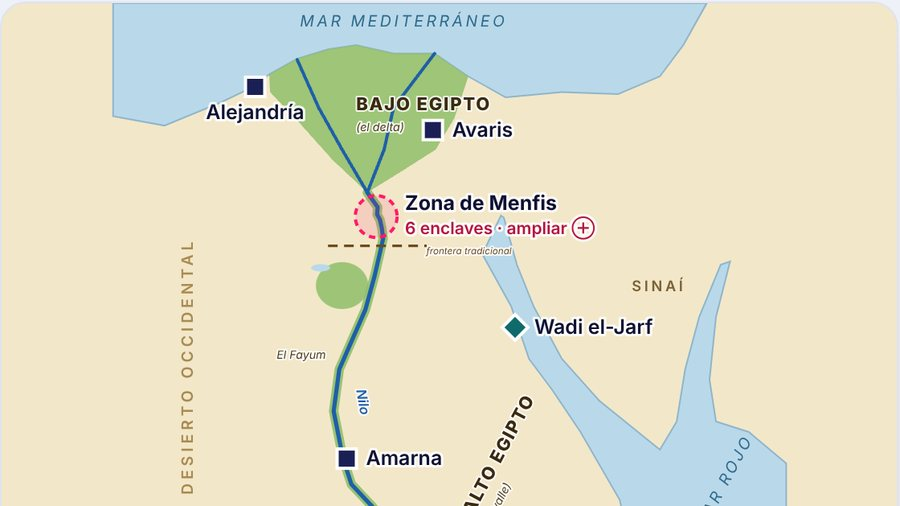
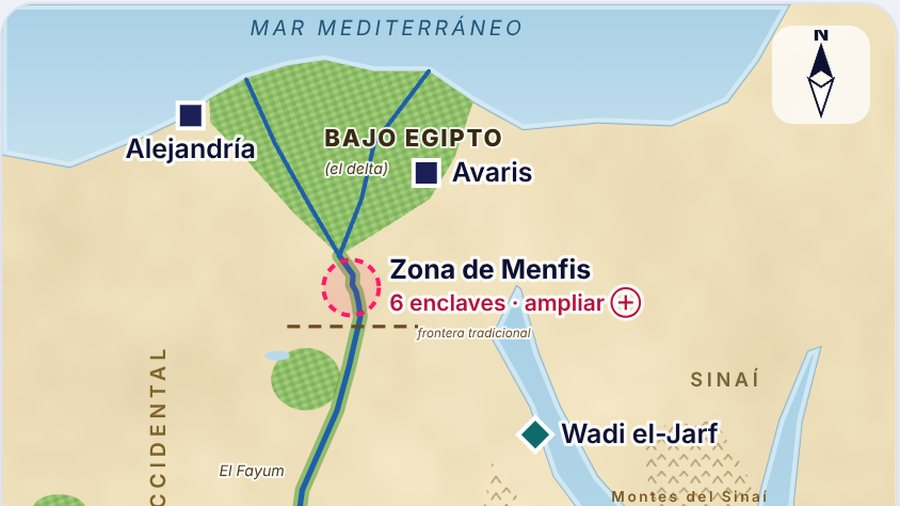
Mapa de Egipto: mejora gráfica
- Textura de arena en el desierto, mar con degradado y aguas costeras.
- Campos de cultivo en el delta, El Fayum y los oasis (Bahariya, Dajla, Jarga).
- Montes del mar Rojo y del Sinaí con trama de relieve esquemática.
- Rosa de los vientos y escala gráfica que se ajusta al ampliar.
- El recuadro del mapa se ajusta a su forma; leyenda y nota actualizadas.

Claude-Session: https://claude.ai/code/session_011Ajp1AFFrmJdfUC8hxCHbb

diff --git a/egipto/mapa.js b/egipto/mapa.js
@@ -49,6 +49,33 @@
     tebas: cajaZona(G.zonas.tebas),
   };
 
+  // Textura del desierto: ruido suave (valor interpolado) dibujado en un lienzo pequeño.
+  // Es decorativa: NO representa el relieve real, solo da aspecto de arena.
+  function texturaDesierto() {
+    try {
+      const W = 322, Hh = 540, c = document.createElement('canvas'); c.width = W; c.height = Hh;
+      const g = c.getContext('2d'), img = g.createImageData(W, Hh), d = img.data;
+      let semilla = 9;
+      const rnd = () => { semilla = (semilla * 16807) % 2147483647; return semilla / 2147483647; };
+      const rejilla = (n) => { const r = []; for (let i = 0; i < (n + 2) * (n + 2); i++) r.push(rnd()); return r; };
+      const capas = [[6, 0.5], [14, 0.3], [40, 0.2]].map(([n, peso]) => ({ n, peso, r: rejilla(n) }));
+      const suave = t => t * t * (3 - 2 * t);
+      for (let y = 0; y < Hh; y++) for (let x = 0; x < W; x++) {
+        let v = 0;
+        for (const { n, peso, r } of capas) {
+          const fx = x / W * n, fy = y / Hh * n * 1.4, ix = Math.floor(fx), iy = Math.floor(fy) % (n + 1);
+          const tx = suave(fx - ix), ty = suave(fy - Math.floor(fy)), w = n + 2;
+          const a = r[iy * w + ix], b = r[iy * w + ix + 1], c2 = r[(iy + 1) * w + ix], e = r[(iy + 1) * w + ix + 1];
+          v += peso * ((a * (1 - tx) + b * tx) * (1 - ty) + (c2 * (1 - tx) + e * tx) * ty);
+        }
+        const i = (y * W + x) * 4, k = (v - 0.5) * 2;
+        d[i] = 238 + k * 14; d[i + 1] = 223 + k * 16; d[i + 2] = 186 + k * 18; d[i + 3] = 255;
+      }
+      g.putImageData(img, 0, 0);
+      return c.toDataURL('image/png');
+    } catch (e) { return null; }
+  }
+
   function iniciar() {
     const caja = document.getElementById('mapa-egipto');
     if (!caja) return;
@@ -60,14 +87,39 @@
     const mapa = svg('svg', { viewBox: `0 0 ${ANCHO.toFixed(0)} ${ALTO.toFixed(0)}`, role: 'group',
       'aria-labelledby': 'mapa-titulo', class: 'mapa', preserveAspectRatio: 'xMidYMid meet' });
     mapa.append(svg('title', { id: 'mapa-titulo' }, 'Mapa del antiguo Egipto: el Nilo, el delta, las cataratas y los principales enclaves'));
+    // Motivos de relleno: campos de cultivo y montes (se dibujan una vez, no pesan)
+    const defs = svg('defs', {},
+      svg('pattern', { id: 'p-campos', width: 7, height: 5, patternUnits: 'userSpaceOnUse', patternTransform: 'rotate(-20)' },
+        svg('rect', { width: 7, height: 5, fill: 'var(--verde)' }),
+        svg('rect', { width: 3.4, height: 2.3, fill: '#a4cd7d' }), svg('rect', { x: 3.6, y: 2.6, width: 3.4, height: 2.4, fill: '#7fb15a' })),
+      svg('pattern', { id: 'p-montes', width: 16, height: 12, patternUnits: 'userSpaceOnUse' },
+        svg('path', { d: 'M1 9L4.5 4L8 9M9 4L12 0.5L15 4', fill: 'none', stroke: '#9c7a45', 'stroke-width': 1.1, 'stroke-linejoin': 'round', opacity: 0.75 })),
+      svg('clipPath', { id: 'c-mar' }, svg('path', { d: ruta(G.mediterraneo, true) + ruta(G.marRojo, true) })),
+      svg('linearGradient', { id: 'g-mar', x1: 0, y1: 0, x2: 0, y2: 1 },
+        svg('stop', { offset: 0, 'stop-color': '#a9d0e6' }), svg('stop', { offset: 1, 'stop-color': '#c4e0ee' })));
+    mapa.append(defs);
     mapa.append(svg('rect', { class: 'tierra', x: 0, y: 0, width: ANCHO, height: ALTO }));
+    // Textura del desierto: manchas suaves generadas una sola vez en un lienzo
+    const tex = texturaDesierto();
+    if (tex) mapa.append(svg('image', { href: tex, x: 0, y: 0, width: ANCHO, height: ALTO, preserveAspectRatio: 'none', opacity: 0.9, 'aria-hidden': 'true', class: 'textura-desierto' }));
+    // Montes (relieve esquemático)
+    for (const m of G.montes) mapa.append(svg('path', { class: 'montes', d: ruta(m.contorno, true) }));
     mapa.append(svg('path', { class: 'mar', d: ruta(G.mediterraneo, true) }));
     mapa.append(svg('path', { class: 'mar', d: ruta(G.marRojo, true) }));
+    // Aguas poco profundas junto a la costa
+    mapa.append(svg('g', { 'clip-path': 'url(#c-mar)' },
+      svg('path', { class: 'costa-agua', d: ruta(G.mediterraneo, true) }), svg('path', { class: 'costa-agua', d: ruta(G.marRojo, true) })));
+    // Oasis
+    for (const o of G.oasis) {
+      const [ox, oy] = px(o.pos[0], o.pos[1]);
+      mapa.append(svg('ellipse', { class: 'fertil campos', cx: ox, cy: oy, rx: o.rx * ESCALA * K, ry: o.ry * ESCALA }));
+    }
     const [fx, fy] = px(G.fayum.centro[0], G.fayum.centro[1]);
-    mapa.append(svg('ellipse', { class: 'fertil', cx: fx, cy: fy, rx: G.fayum.radio * ESCALA * K, ry: G.fayum.radio * ESCALA * 0.8 }));
+    mapa.append(svg('ellipse', { class: 'fertil campos', cx: fx, cy: fy, rx: G.fayum.radio * ESCALA * K, ry: G.fayum.radio * ESCALA * 0.8 }));
     const [lx, ly] = px(G.fayum.lago[0], G.fayum.lago[1]);
     mapa.append(svg('ellipse', { class: 'lago', cx: lx, cy: ly, rx: 9, ry: 3.5 }));
-    mapa.append(svg('path', { class: 'fertil', d: ruta(G.delta, true) }));
+    mapa.append(svg('path', { class: 'fertil campos', d: ruta(G.delta, true) }));
+    mapa.append(svg('path', { class: 'valle-borde', d: ruta(G.nilo) }));
     mapa.append(svg('path', { class: 'valle', d: ruta(G.nilo) }));
     mapa.append(svg('path', { class: 'nilo', d: ruta(G.nilo) }));
     G.brazos.forEach(b => mapa.append(svg('path', { class: 'nilo brazo', d: ruta(b) })));
@@ -79,6 +131,8 @@
       const [x, y] = px(lat, lon);
       rotulos.append(svg('text', { x, y, class: 'r-' + clase, transform: giro ? `rotate(${giro} ${x} ${y})` : '' }, texto));
     }
+    for (const o of G.oasis) { const [x, y] = px(o.pos[0] - o.ry - 0.12, o.pos[1]); rotulos.append(svg('text', { x, y, class: 'r-oasis' }, o.nombre)); }
+    for (const m of G.montes) { const [x, y] = px(m.rotulo[0], m.rotulo[1]); rotulos.append(svg('text', { x, y, class: 'r-montes', transform: m.rotulo[2] ? `rotate(${m.rotulo[2]} ${x} ${y})` : '' }, m.nombre)); }
     mapa.append(rotulos);
 
     // Capa de elementos que mantienen su tamaño al ampliar
@@ -140,6 +194,10 @@
       marcadores[e.id] = g;
     }
     caja.append(mapa);
+    const rosa = el('div', { class: 'rosa', 'aria-hidden': 'true' });
+    rosa.innerHTML = '<svg viewBox="-20 -24 40 46" width="38" height="44"><path d="M0 -18L6 0L0 -4L-6 0Z" fill="#0d1033"/><path d="M0 18L6 0L0 4L-6 0Z" fill="#fff" stroke="#0d1033" stroke-width="1"/><text x="0" y="-19" text-anchor="middle" font-size="10" font-weight="800" fill="#0d1033">N</text></svg>';
+    const escala = el('div', { class: 'escala', 'aria-hidden': 'true' }, el('span', { class: 'barra-escala' }), el('span', { class: 'texto-escala' }));
+    caja.append(rosa, escala);
 
     // ---------- Vistas y ampliación ----------
     let vista = 'todo', vb = { ...VISTAS.todo }, anim = null;
@@ -151,6 +209,11 @@
       const s = Math.min(1.6, Math.max(v.w / cw, v.h / ch));
       for (const f of fijos) f.nodo.setAttribute('transform', `translate(${f.x.toFixed(2)} ${f.y.toFixed(2)}) scale(${s.toFixed(5)})`);
       mapa.style.setProperty('--grosor', s);
+      // Escala gráfica: 1 grado de latitud ≈ 111 km
+      const pxKm = (1 / s) * (ESCALA / 111);
+      const km = [1000, 500, 200, 100, 50, 20, 10, 5, 2, 1, 0.5].find(k => k * pxKm <= 120) || 0.5;
+      escala.querySelector('.barra-escala').style.width = (km * pxKm).toFixed(0) + 'px';
+      escala.querySelector('.texto-escala').textContent = km >= 1 ? km + ' km' : km * 1000 + ' m';
     }
     function verVista(id, foco) {
       vista = id;

diff --git a/egipto/egipto.css b/egipto/egipto.css
@@ -30,6 +30,18 @@
 .mapa .mar{fill:var(--mar);stroke:#8fb5cb;stroke-width:1;vector-effect:non-scaling-stroke}
 .mapa .fertil{fill:var(--verde);opacity:.85}
 .mapa .lago{fill:var(--mar)}
+.mapa .montes{fill:url(#p-montes);stroke:none}
+.mapa .campos{fill:url(#p-campos);opacity:1}
+.mapa .mar{fill:url(#g-mar)}
+.mapa .costa-agua{fill:none;stroke:#dbeef6;stroke-width:7;opacity:.75;stroke-linejoin:round}
+.mapa .valle-borde{fill:none;stroke:#5f8f3f;stroke-width:calc(var(--valle,9px) * 1.18);stroke-linecap:round;stroke-linejoin:round;opacity:.55}
+.mapa .r-oasis{font-size:10px;font-style:italic;fill:#3f6b25;text-anchor:middle}
+.mapa .r-montes{font-size:10.5px;font-weight:600;letter-spacing:.18em;fill:#7a5a28;stroke:none;text-anchor:middle}
+.mapa-caja{position:relative;width:fit-content;max-width:100%;margin-inline:auto}
+@media (min-width:861px){.mapa{width:auto;height:min(78vh,900px);max-height:none}}
+.rosa{position:absolute;top:10px;right:12px;background:rgba(255,255,255,.75);border-radius:10px;padding:2px 4px 0;line-height:0}
+.escala{position:absolute;right:12px;bottom:10px;align-items:flex-end;background:rgba(255,255,255,.8);border-radius:8px;padding:4px 8px 3px;font-size:.72rem;font-weight:600;color:var(--azul);display:flex;flex-direction:column;gap:2px}
+.barra-escala{display:block;height:6px;border:2px solid var(--azul);border-top:0;min-width:20px}
 .mapa .valle{fill:none;stroke:var(--verde);stroke-width:var(--valle,8);stroke-linecap:round;stroke-linejoin:round;opacity:.9}
 .mapa .nilo{fill:none;stroke:var(--nilo);stroke-width:2.6;stroke-linecap:round;stroke-linejoin:round;vector-effect:non-scaling-stroke}
 .mapa .nilo.brazo{stroke-width:2}
@@ -174,3 +186,6 @@
 }
 @media print{.mapa-vistas,.barra-facil,.reto-botones{display:none}}
 .cmp.sola .cmp-marco::after{display:none}
+
+.mapa-caja:not([data-vista="todo"]) .textura-desierto{display:none}
+.m-montes{color:#9c7a45;font-weight:700;letter-spacing:-.15em}

diff --git a/egipto/mapa-geo.js b/egipto/mapa-geo.js
@@ -54,6 +54,22 @@ window.GEO_EGIPTO = {
   // Oasis de El Fayum y su lago
   fayum: { centro: [29.3, 30.85], radio: 0.28, lago: [29.47, 30.62] },
 
+  // Oasis del desierto occidental (posiciones aproximadas)
+  oasis: [
+    { nombre: 'Oasis de Bahariya', pos: [28.35, 28.86], rx: 0.22, ry: 0.12 },
+    { nombre: 'Oasis de Dajla', pos: [25.5, 29.05], rx: 0.35, ry: 0.1 },
+    { nombre: 'Oasis de Jarga', pos: [25.4, 30.55], rx: 0.12, ry: 0.4 },
+  ],
+
+  // Zonas montañosas (contorno esquemático): montes del mar Rojo y sur del Sinaí
+  montes: [
+    { nombre: 'MONTES DEL MAR ROJO', rotulo: [27.05, 33.07, -68], contorno: [
+      [28.7, 32.35], [28.1, 32.85], [27.2, 33.3], [26.2, 33.65], [25.2, 34.05], [24.2, 34.6], [23.2, 35.05], [22.2, 35.4], [21.2, 35.6],
+      [21.2, 34.75], [22.3, 34.1], [23.6, 33.55], [24.8, 33.2], [26.0, 32.95], [27.2, 32.7], [28.2, 32.25]] },
+    { nombre: 'Montes del Sinaí', rotulo: [28.42, 33.95, 0], contorno: [
+      [28.95, 33.55], [29.0, 34.15], [28.55, 34.45], [28.0, 34.32], [27.85, 34.1], [28.3, 33.65]] },
+  ],
+
   // Cataratas: zonas de rocas que cortan el río
   cataratas: [
     { nombre: '1.ª catarata', pos: [24.0, 32.88] },
@@ -68,8 +84,8 @@ window.GEO_EGIPTO = {
     [31.78, 30.4, 'MAR MEDITERRÁNEO', 'mar', 0],
     [26.95, 34.72, 'MAR ROJO', 'mar', -62],
     [29.25, 33.95, 'SINAÍ', 'region', 0],
-    [27.3, 29.25, 'DESIERTO OCCIDENTAL', 'desierto', -90],
-    [22.85, 34.35, 'DESIERTO ORIENTAL', 'desierto', -90],
+    [27.1, 29.72, 'DESIERTO OCCIDENTAL', 'desierto', -90],
+    [22.9, 34.75, 'DESIERTO ORIENTAL', 'desierto', -70],
     [30.98, 31.0, 'BAJO EGIPTO', 'pais', 0],
     [30.78, 31.0, '(el delta)', 'nota', 0],
     [27.1, 32.25, 'ALTO EGIPTO', 'pais', -62],

diff --git a/egipto.html b/egipto.html
@@ -50,8 +50,8 @@ document.write('<link rel="stylesheet" href="estilo.css?v=' + v0 + '"><link rel=
         <p id="mapa-estado" class="vh" aria-live="polite"></p>
         <div id="mapa-egipto" class="mapa-caja"></div>
         <ul id="leyenda-mapa" class="leyenda" aria-label="Leyenda de símbolos"></ul>
-        <p class="leyenda-geo"><span class="m-valle" aria-hidden="true"></span> Tierras fértiles del Nilo <span class="m-catarata" aria-hidden="true">≋</span> Catarata (rocas que cortan el río) <span class="m-frontera" aria-hidden="true"></span> Frontera entre el Alto y el Bajo Egipto</p>
-        <p class="nota-pequena">Mapa esquemático. El Nilo corre de sur a norte: por eso el Alto Egipto está abajo, en el sur, y el Bajo Egipto arriba, en el delta. Hoy el delta tiene dos brazos principales; en la Antigüedad tenía más (Heródoto cita siete).</p>
+        <p class="leyenda-geo"><span class="m-valle" aria-hidden="true"></span> Tierras fértiles del Nilo <span class="m-catarata" aria-hidden="true">≋</span> Catarata (rocas que cortan el río) <span class="m-frontera" aria-hidden="true"></span> Frontera entre el Alto y el Bajo Egipto <span class="m-montes" aria-hidden="true">⌃⌃</span> Montes</p>
+        <p class="nota-pequena">Mapa esquemático. El Nilo corre de sur a norte: por eso el Alto Egipto está abajo, en el sur, y el Bajo Egipto arriba, en el delta. Hoy el delta tiene dos brazos principales; en la Antigüedad tenía más (Heródoto cita siete). Los montes y los oasis están dibujados de forma aproximada. Mapa de elaboración propia.</p>
       </div>
       <aside id="ficha-enclave" class="ficha-enclave" aria-live="polite" aria-label="Ficha del enclave"></aside>
     </div>
